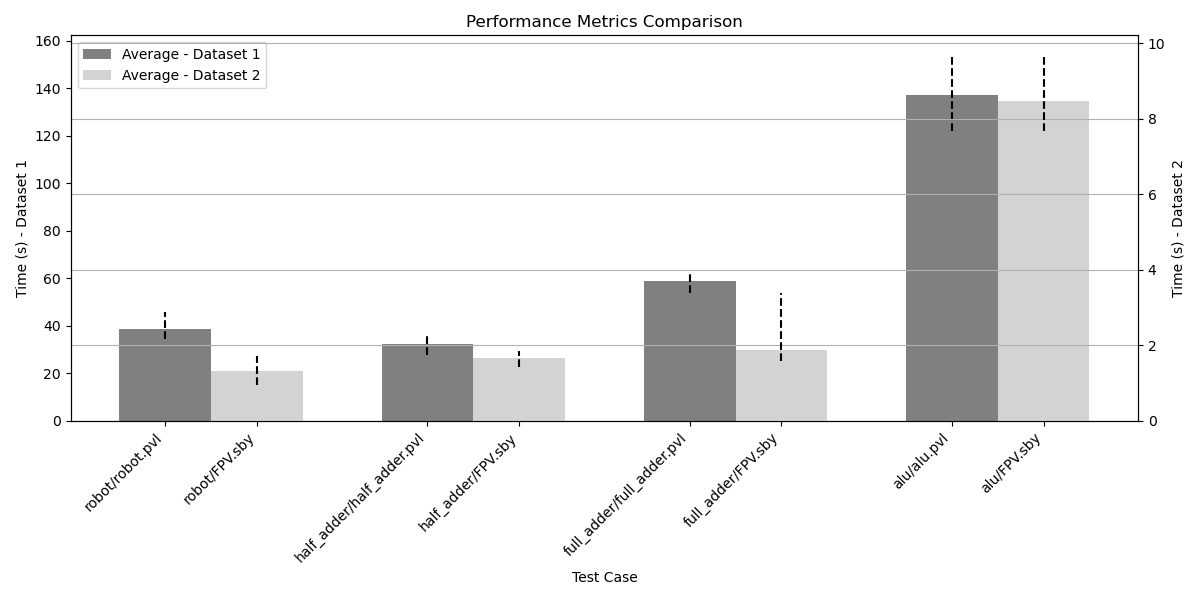
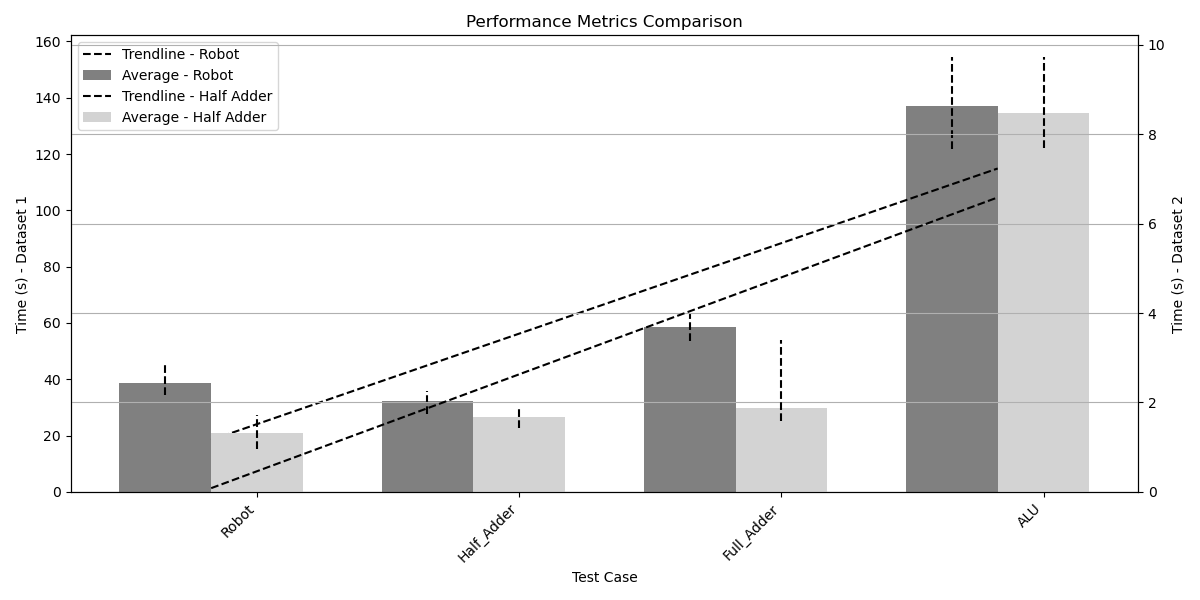
updates plot 2

diff --git a/src/plot_results.py b/src/plot_results.py
@@ -7,9 +7,16 @@ results_files = [
     "verif_vercors/results.txt",
     "verif_sby/results.txt"
 ]  # List of result files
+file_labels = [
+    "Robot", 
+    "Half Adder",
+    "Full Adder",
+    "ALU"
+] 
+
 plot_title = "Performance Metrics Comparison"  # Title of the plot
 output_image = "performance_metrics_comparison.png"  # Output image file name
-add_trendline = False  # Set to True to add a trendline
+add_trendline = True  # Set to True to add a trendline
 
 # Read results from the file
 def read_results(file_path):
@@ -36,46 +43,48 @@ def read_results(file_path):
     return statistics_data
 
 # Plot data from multiple files
-def plot_results(results_data, plot_title, output_image, add_trendline):
+def plot_results(results_data, file_labels, plot_title, output_image, add_trendline):
     fig, ax1 = plt.subplots(figsize=(12, 6))
 
+    bar_width = 0.35  # Width of the bars
+    offset = bar_width / 2  # Offset to place bars side by side
+
     # Plot the first dataset on the primary Y-axis
-    test_names, min_times, max_times, avg_times, _ = zip(*results_data[0])
-    x = np.arange(len(test_names))  # the label locations for the first dataset
+    test_names1, min_times1, max_times1, avg_times1, _ = zip(*results_data[0])
+    x1 = np.arange(len(test_names1))  # Positions for the bars
 
     # Plot the average bars for the first dataset
-    bar_width = 0.35
-    bars_avg1 = ax1.bar(x - bar_width / 2, avg_times, bar_width, label='Average - Dataset 1', color='gray')
+    bars_avg1 = ax1.bar(x1 - offset, avg_times1, bar_width, label=f'Average - {file_labels[0]}', color='gray')
 
-    # Add the variation between min and max
-    for i in range(len(x)):
-        ax1.vlines(x[i] - bar_width / 2, min_times[i], max_times[i], color='black', linestyle='dashed')
+    # Add the variation between min and max for the first dataset
+    for i in range(len(x1)):
+        ax1.vlines(x1[i] - offset, min_times1[i], max_times1[i], color='black', linestyle='dashed')
 
     # Optional trendline for the first dataset
     if add_trendline:
-        z = np.polyfit(x, avg_times, 1)
+        z = np.polyfit(x1, avg_times1, 1)
         p = np.poly1d(z)
-        ax1.plot(x, p(x), "--", color='black', label='Trendline - Dataset 1')
+        ax1.plot(x1, p(x1), "--", color='black', label=f'Trendline - {file_labels[0]}')
 
     # Create a secondary Y-axis
     ax2 = ax1.twinx()
 
     # Plot the second dataset on the secondary Y-axis
     test_names2, min_times2, max_times2, avg_times2, _ = zip(*results_data[1])
-    x2 = np.arange(len(test_names2))  # the label locations for the second dataset
+    x2 = np.arange(len(test_names2))  # Positions for the bars
 
     # Plot the average bars for the second dataset
-    bars_avg2 = ax2.bar(x2 + bar_width / 2, avg_times2, bar_width, label='Average - Dataset 2', color='lightgray')
+    bars_avg2 = ax2.bar(x2 + offset, avg_times2, bar_width, label=f'Average - {file_labels[1]}', color='lightgray')
 
     # Add the variation between min and max for the second dataset
     for i in range(len(x2)):
-        ax2.vlines(x2[i] + bar_width / 2, min_times2[i], max_times2[i], color='black', linestyle='dashed')
+        ax2.vlines(x2[i] + offset, min_times2[i], max_times2[i], color='black', linestyle='dashed')
 
     # Optional trendline for the second dataset
     if add_trendline:
         z = np.polyfit(x2, avg_times2, 1)
         p = np.poly1d(z)
-        ax2.plot(x2, p(x2), "--", color='black', label='Trendline - Dataset 2')
+        ax2.plot(x2, p(x2), "--", color='black', label=f'Trendline - {file_labels[1]}')
 
     # Add labels, title, and custom x-axis tick labels
     ax1.set_xlabel('Test Case')
@@ -83,11 +92,17 @@ def plot_results(results_data, plot_title, output_image, add_trendline):
     ax2.set_ylabel('Time (s) - Dataset 2')
     ax1.set_title(plot_title)
 
-    # Adjust x-ticks to fit both datasets
-    combined_x = np.concatenate([x - bar_width / 2, x2 + bar_width / 2])
-    combined_labels = list(test_names) + list(test_names2)
-    ax1.set_xticks(combined_x)
-    ax1.set_xticklabels(combined_labels, rotation=45, ha='right')
+    # Combine x-ticks and labels for both datasets
+    combined_x = np.concatenate([x1 - offset, x2 + offset])
+    combined_labels = file_labels * max(len(test_names1), len(test_names2))
+    
+    # Set x-ticks and labels
+    ax1.set_xticks(x1)  # Set ticks only where bars are placed
+    ax1.set_xticklabels(test_names1, rotation=45, ha='right')
+
+    # Add secondary x-ticks for the second dataset
+    ax2.set_xticks(x2 + offset)
+    ax2.set_xticklabels(test_names2, rotation=45, ha='right')
 
     # Combine legends from both axes
     lines, labels = ax1.get_legend_handles_labels()
@@ -104,4 +119,4 @@ def plot_results(results_data, plot_title, output_image, add_trendline):
 results_data = [read_results(file) for file in results_files]
 
 # Plot the results
-plot_results(results_data, plot_title, output_image, add_trendline)
+plot_results(results_data, file_labels, plot_title, output_image, add_trendline)
